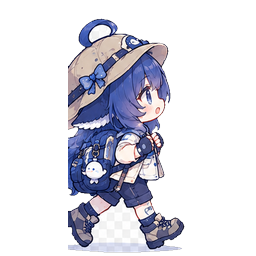
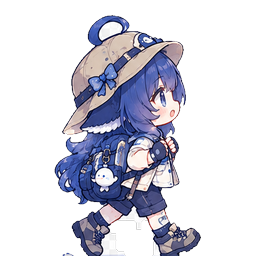
重新抠走路帧：不再用人工量的框切，改成整张抠完按连通块取人
之前那版的问题是框切到人物：第二帧左边被裁掉 42px（背包和头发），
脚边还留着没被泛洪到的棋盘格方块。

现在：
- 整张设定表先抠（只从画布边缘泛洪），再用 alpha 连通块找出上排四个人物，
  按面积和位置认出第 2、3 个，取它们的真实包围盒 —— 不会再切到人
- 清掉被腿围住的棋盘格（识别矩形色块）
- 去掉脚底那条画在棋盘格上的地面阴影
- 逐轮啃掉边缘的浅色碎屑 + 半透明像素，边缘不再发毛

已知：放大到 300% 时两腿之间的缝隙边缘还有点硬；实际显示 84px 下看不出来。

diff --git a/tools/sprites.py b/tools/sprites.py
@@ -1,34 +1,284 @@
-# tools/sprites.py —— 从设定表里切出走路帧
-# 设定表第三张：上排四个姿势，第 2、3 个是侧身迈步的两帧，来回切就是走路。
+# tools/sprites.py —— 从设定表切走路帧（v2：整张一次抠，再按连通块找人）
+#
+# v1 的错：先按手量的框裁，再抠 —— 框切到人物，后面（背包、头发）就被切掉了，
+#          脚边还会残留没被泛洪到的棋盘格。
+# v2：整张图先抠干净，再对 alpha 做连通块，按面积和位置认出人物，各自取包围盒。
+#
 # 跑法：python tools/sprites.py
 from PIL import Image
-from cutout import cut_image, trim, to_canvas, largest_component
+from cutout import cut_image, largest_component
 
 SHEET = 'art-source/maid-sheet.png'
-# 上排第 2、3 个人物（原图 1254×1254，坐标按网格量出来的）
-FRAMES = {
-    'walk-a': (355, 92, 712, 665),
-    'walk-b': (705, 92, 1060, 665),
-}
+OUT = 'assets'
+SIZE = 256
+MIN_AREA = 6000      # 小于这个面积的块当装饰（箭头、星星、音符）丢掉
+
+
+def components(im, thresh=10):
+    """返回 alpha 的连通块列表：[{area, box:(l,t,r,b)}]，按面积从大到小"""
+    w, h = im.size
+    a = im.getchannel('A').load()
+    seen = bytearray(w * h)
+    out = []
+    for y in range(h):
+        for x in range(w):
+            i = y * w + x
+            if seen[i] or a[x, y] <= thresh:
+                continue
+            stack = [i]
+            seen[i] = 1
+            n = 0
+            l = r = x
+            t = b = y
+            while stack:
+                j = stack.pop()
+                n += 1
+                jy, jx = divmod(j, w)
+                if jx < l: l = jx
+                if jx > r: r = jx
+                if jy < t: t = jy
+                if jy > b: b = jy
+                for nx, ny in ((jx - 1, jy), (jx + 1, jy), (jx, jy - 1), (jx, jy + 1)):
+                    if 0 <= nx < w and 0 <= ny < h:
+                        k = ny * w + nx
+                        if not seen[k] and a[nx, ny] > thresh:
+                            seen[k] = 1
+                            stack.append(k)
+            out.append({'area': n, 'box': (l, t, r + 1, b + 1)})
+    out.sort(key=lambda c: -c['area'])
+    return out
+
+
+def strip_checker_blocks(im, min_area=400, min_fill=0.6):
+    """清掉被人物围住的棋盘格。
+
+    泛洪只能从画布边缘往里走，脚和腿围出来的那块进不去，于是留个白方块。
+    棋盘格的特征是**两种中性灰白交替 + 整块是规规矩矩的矩形**，
+    真·画面里的白（荷叶边、高光、地面阴影）边缘不规则，填不满包围盒。
+    所以：找出所有"棋盘色"像素的连通块，面积够大且包围盒填充率高的，判为背景。
+    """
+    im = im.convert('RGBA')
+    w, h = im.size
+    px = im.load()
+
+    def is_checker(p):
+        r, g, b, _ = p
+        if max(r, g, b) - min(r, g, b) > 4:
+            return False
+        return 236 <= r <= 243 or 251 <= r <= 255
+
+    seen = bytearray(w * h)
+    out = im.copy()
+    op = out.load()
+    for y in range(h):
+        for x in range(w):
+            i = y * w + x
+            if seen[i] or not is_checker(px[x, y]):
+                continue
+            stack = [i]
+            seen[i] = 1
+            comp = []
+            while stack:
+                j = stack.pop()
+                comp.append(j)
+                jy, jx = divmod(j, w)
+                for nx, ny in ((jx - 1, jy), (jx + 1, jy), (jx, jy - 1), (jx, jy + 1)):
+                    if 0 <= nx < w and 0 <= ny < h:
+                        k = ny * w + nx
+                        if not seen[k] and is_checker(px[nx, ny]):
+                            seen[k] = 1
+                            stack.append(k)
+            if len(comp) < min_area:
+                continue
+            xs = [j % w for j in comp]
+            ys = [j // w for j in comp]
+            bw = max(xs) - min(xs) + 1
+            bh = max(ys) - min(ys) + 1
+            if len(comp) / float(bw * bh) < min_fill:
+                continue
+            for j in comp:
+                jy, jx = divmod(j, w)
+                op[jx, jy] = (0, 0, 0, 0)
+    return out
+
+
+def drop_ground_shadow(im, bottom_ratio=0.86, min_area=300):
+    """去掉脚底那条地面阴影。
+
+    它被画在棋盘格上：抠掉格子会剩一圈白边，空洞还会露出来。
+    形状上它是「贴着图片最底部的一大片浅色、低饱和像素」，而且通常**和人物不相连**
+    —— 所以按连通块找：浅色、够大、包围盒底部落在画面最下面那条带子里，整块删掉。
+    深色鞋底、浅色但连在人物身上的衣服都不会被动到。
+    """
+    im = im.convert('RGBA')
+    w, h = im.size
+    px = im.load()
+
+    def light(p):
+        r, g, b, a = p
+        if a == 0:
+            return False
+        mx, mn = max(r, g, b), min(r, g, b)
+        return mx >= 190 and (mx - mn) <= 34
+
+    seen = bytearray(w * h)
+    for y in range(h):
+        for x in range(w):
+            i = y * w + x
+            if seen[i] or not light(px[x, y]):
+                continue
+            stack = [i]
+            seen[i] = 1
+            comp = []
+            ys = []
+            while stack:
+                j = stack.pop()
+                comp.append(j)
+                jy, jx = divmod(j, w)
+                ys.append(jy)
+                for nx, ny in ((jx - 1, jy), (jx + 1, jy), (jx, jy - 1), (jx, jy + 1)):
+                    if 0 <= nx < w and 0 <= ny < h:
+                        k = ny * w + nx
+                        if not seen[k] and light(px[nx, ny]):
+                            seen[k] = 1
+                            stack.append(k)
+            if len(comp) < min_area:
+                continue
+            if max(ys) < h * bottom_ratio:
+                continue          # 不贴地，是衣服/高光，留着
+            for j in comp:
+                jy, jx = divmod(j, w)
+                px[jx, jy] = (0, 0, 0, 0)
+    return im
+
+
+def erode_light_fringe(im, rounds=4, min_bright=180, max_sat=46):
+    """从透明区往里"啃"掉浅色边缘。
+
+    棋盘格被清掉后，阴影和抗锯齿会在边界留下一圈浅色碎屑（面积太小，
+    单看每个碎块都达不到"整块删除"的阈值）。这里换个思路：只删**和透明区相邻**的
+    浅色像素，一轮 1px，跑几轮。衣服内部不和透明区相邻，不会被啃穿。
+    """
+    im = im.convert('RGBA')
+    w, h = im.size
+    px = im.load()
+    for _ in range(rounds):
+        todo = []
+        for y in range(h):
+            for x in range(w):
+                r, g, b, a = px[x, y]
+                if a == 0:
+                    continue
+                mx, mn = max(r, g, b), min(r, g, b)
+                if mx < min_bright or (mx - mn) > max_sat:
+                    continue
+                edge = False
+                for nx, ny in ((x - 1, y), (x + 1, y), (x, y - 1), (x, y + 1)):
+                    if 0 <= nx < w and 0 <= ny < h and px[nx, ny][3] == 0:
+                        edge = True
+                        break
+                if edge:
+                    todo.append((x, y))
+        if not todo:
+            break
+        for x, y in todo:
+            px[x, y] = (0, 0, 0, 0)
+    return im
+
+
+def trim_bottom_band(im, max_rows_ratio=0.10):
+    """从底部往上砍掉"地面阴影带"。
+
+    判定：某一行的不透明像素里，浅色低饱和的占多数 ⇒ 这行主要是阴影/碎屑，
+    整行砍掉；遇到深色（鞋底）就停。最多砍掉高度的 10%，防止砍到鞋。
+    """
+    im = im.convert('RGBA')
+    w, h = im.size
+    px = im.load()
+    limit = int(h * max_rows_ratio)
+    cut_rows = 0
+    for y in range(h - 1, max(0, h - 1 - limit), -1):
+        solid = 0
+        light = 0
+        for x in range(w):
+            r, g, b, a = px[x, y]
+            if a < 40:
+                continue
+            solid += 1
+            mx, mn = max(r, g, b), min(r, g, b)
+            if mx >= 180 and (mx - mn) <= 48:
+                light += 1
+        if solid == 0 or light / solid >= 0.55:
+            cut_rows += 1
+            continue
+        break
+    if cut_rows:
+        im = im.crop((0, 0, w, h - cut_rows))
+    return im
+
+
+def defringe(im, min_alpha=170):
+    """最后一步：去掉半透明的浅色碎屑。
+
+    阴影和棋盘格交界处会留一圈"半透明白"，放大看就是毛边。
+    把「浅色 + 半透明」的像素直接清成透明，剩下的边缘由深色描边兜住。
+    """
+    im = im.convert('RGBA')
+    w, h = im.size
+    px = im.load()
+    for y in range(h):
+        for x in range(w):
+            r, g, b, a = px[x, y]
+            if a == 0 or a >= min_alpha:
+                continue
+            mx, mn = max(r, g, b), min(r, g, b)
+            if mx >= 170 and (mx - mn) <= 60:
+                px[x, y] = (0, 0, 0, 0)
+    return im
+
 
 def main():
     sheet = Image.open(SHEET)
-    out = {}
-    for name, box in FRAMES.items():
-        piece = sheet.crop(box)
-        cut = trim(largest_component(cut_image(piece)))
-        out[name] = cut
-        print(name, 'trimmed', cut.size)
-    # 按高度各自归一：设定表里这几个人物本来就没有完全等高，
-    # 用同一个缩放会让第二帧看起来矮一截（切换时像在跳）。
-    size = 256
-    for name, im in out.items():
-        scale = (size * 0.94) / im.height
-        rs = im.resize((max(1, round(im.width * scale)), max(1, round(im.height * scale))), Image.LANCZOS)
-        canvas = Image.new('RGBA', (size, size), (0, 0, 0, 0))
-        canvas.paste(rs, ((size - rs.width) // 2, size - rs.height), rs)
-        canvas.save(f'assets/{name}.png')
-        print('saved', f'assets/{name}.png', canvas.size)
+    cut = cut_image(sheet)          # 整张一次抠：只从画布边缘泛洪
+    cut = strip_checker_blocks(cut) # 再清掉被人物围住的那几块
+    cut = drop_ground_shadow(cut)    # 去掉脚底那条阴影
+    cut = erode_light_fringe(cut)     # 再啃掉边缘的浅色碎屑
+    w, h = cut.size
+
+    comps = [c for c in components(cut) if c['area'] >= MIN_AREA]
+    # 上排四个走路姿势：顶部在上半张、且够高
+    top = [c for c in comps if c['box'][1] < h * 0.55 and (c['box'][3] - c['box'][1]) > h * 0.25]
+    top.sort(key=lambda c: c['box'][0])
+    print('上排识别到', len(top), '个：', [c['box'] for c in top])
+    if len(top) < 3:
+        raise SystemExit('没认全上排的人物，检查 MIN_AREA / 阈值')
+
+    frames = {'walk-a': top[1], 'walk-b': top[2]}
+
+    pieces = {}
+    for name, c in frames.items():
+        l, t, r, b = c['box']
+        pad = 4
+        piece = cut.crop((max(0, l - pad), max(0, t - pad), min(w, r + pad), min(h, b + pad)))
+        # 块里可能混进贴着人物的小装饰，再取一次最大连通块更保险
+        piece = largest_component(piece)
+        piece = trim_bottom_band(piece)
+        piece = defringe(piece)
+        box = piece.getbbox()
+        if box:
+            piece = piece.crop(box)
+        pieces[name] = piece
+        print(name, 'box', c['box'], '->', piece.size)
+
+    # 两帧按高度各自归一，脚踩同一条线
+    for name, piece in pieces.items():
+        scale = (SIZE * 0.94) / piece.height
+        rs = piece.resize((max(1, round(piece.width * scale)), max(1, round(piece.height * scale))), Image.LANCZOS)
+        canvas = Image.new('RGBA', (SIZE, SIZE), (0, 0, 0, 0))
+        canvas.paste(rs, ((SIZE - rs.width) // 2, SIZE - rs.height), rs)
+        canvas.save(f'{OUT}/{name}.png')
+        print('saved', f'{OUT}/{name}.png')
+
 
 if __name__ == '__main__':
     main()
